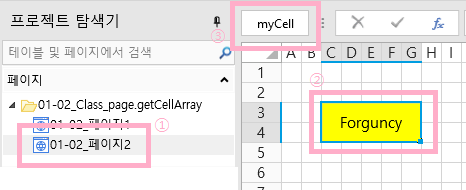
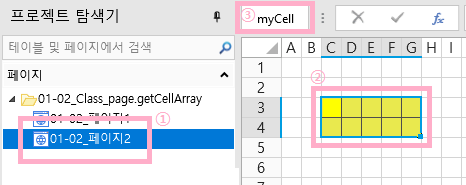
3
3

diff --git a/pages/forguncy5_03_javascript_api/fgc5jsapi_page_class/fgc5jsapi_page_class_getcellarray.md b/pages/forguncy5_03_javascript_api/fgc5jsapi_page_class/fgc5jsapi_page_class_getcellarray.md
@@ -60,10 +60,11 @@ Cell 속성을 반환합니다. 자세한 내용은 Cell[]을 참고하세요.
     ![]({{site.url}}/images/forguncy5/ex-ss_page-getcellarray01.png)]
     <br /><br />
 2. "페이지2"로 이동하여 아래 그림과 같이 셀 영역을 설정합니다. <br />
-    (1) 셀 유형은 '없음' 상태로 그냥 놔두시면 됩니다.<br />
+    (1) 셀을 병합하지 않습니다. 여러 개의 셀을 선택한 상태로 그냥 두시면 됩니다.<br />
     ![]({{site.url}}/images/forguncy5/ex-ss_page-getcellarray03.png)]
     <br />
-    (2) 이후 좌측 상단에 "myCell"이라고 붙여 줍니다.<br />
+    (2) 이후 영역이 선택된 상태에서 좌측 상단에 "myCell"이라고 붙여 줍니다.<br />
+    ※ 참고 : ForguncyCell Name과 관련한 사항에 대해서는 별도의 페이지에서 설명합니다.
     <br /><br />
 3. "페이지1"로 돌아가서 아래 그림과 같이 "버튼"을 생성하고, 버튼에 명령을 설정합니다.<br />
     (1) 셀 영역을 선택하신 후 셀 유형을 "버튼"으로 선택합니다.<br />
